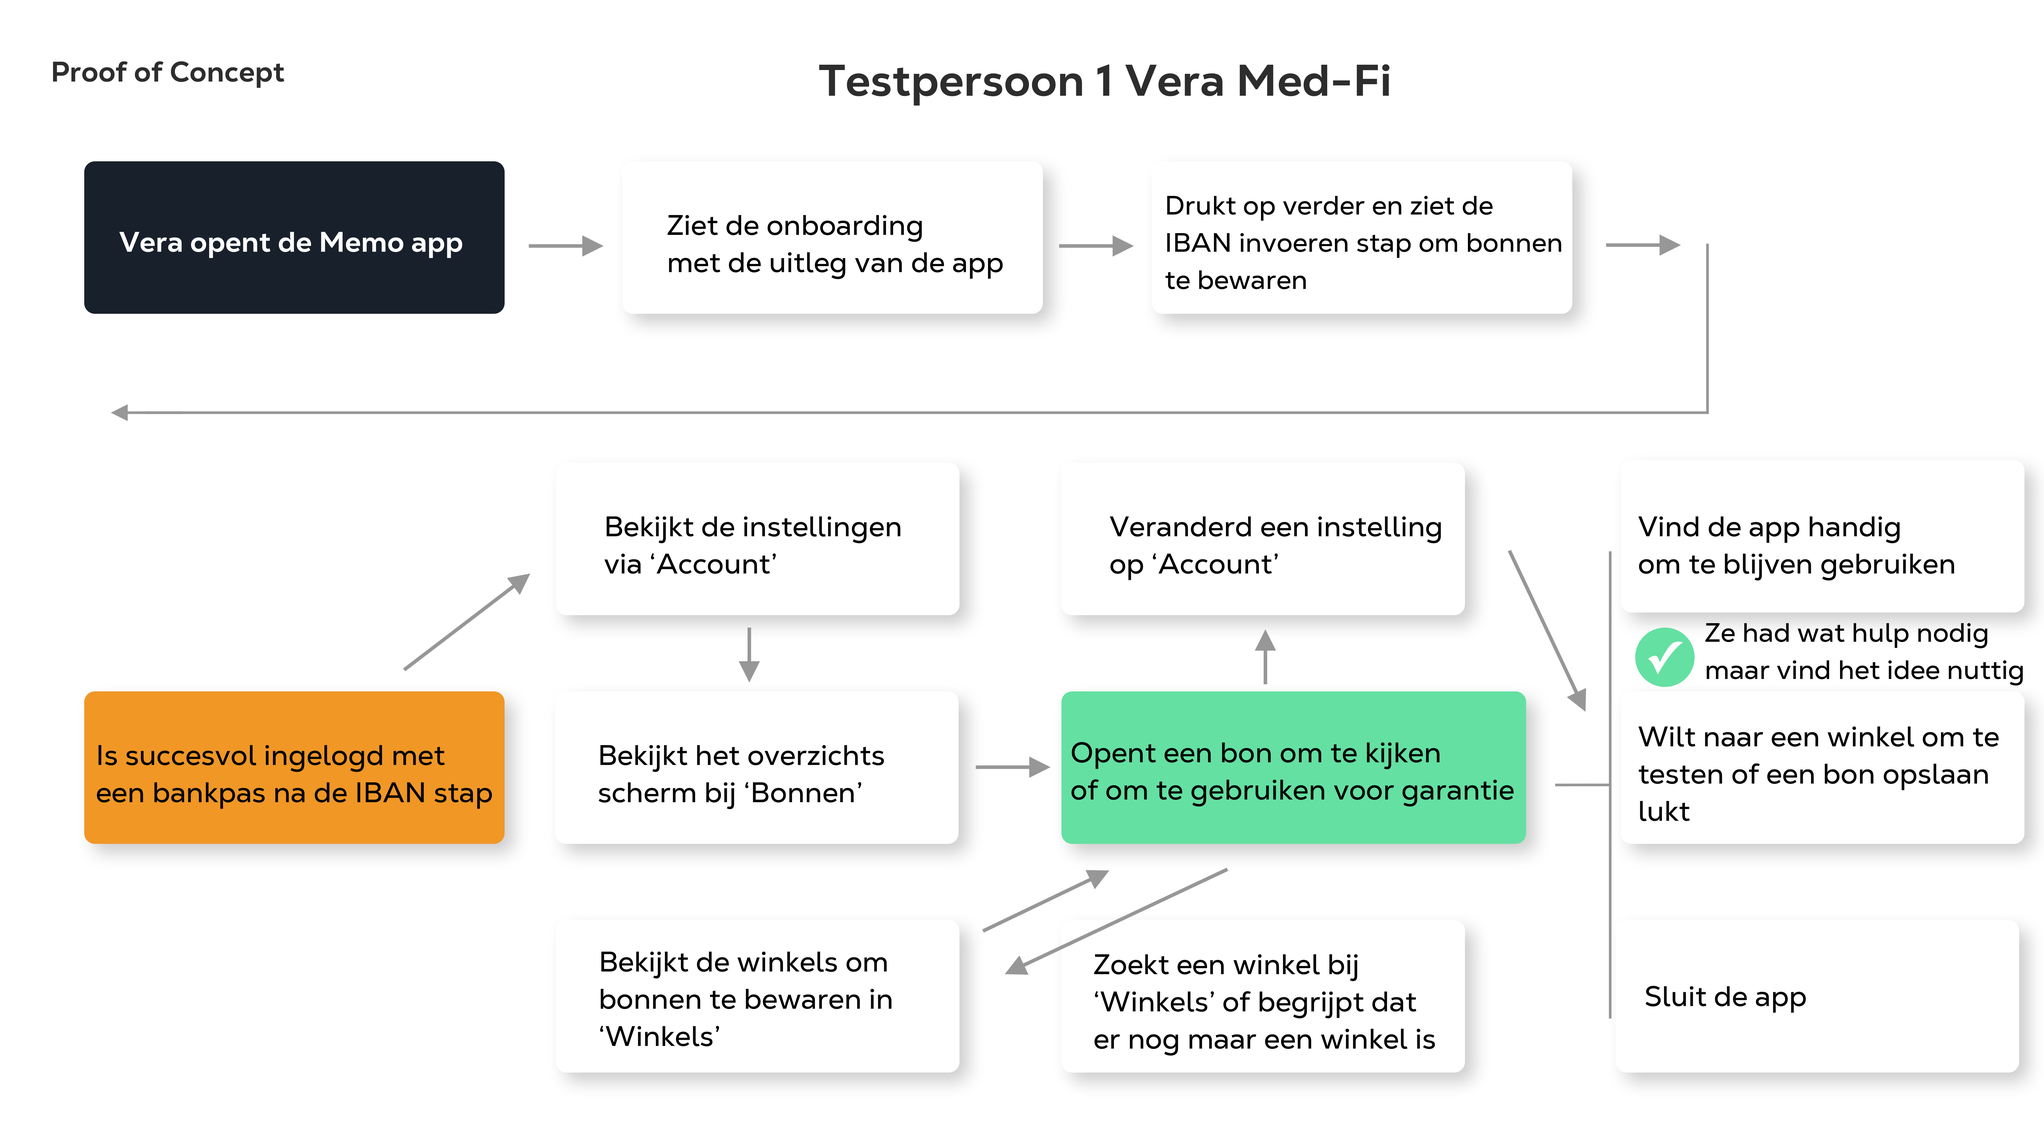
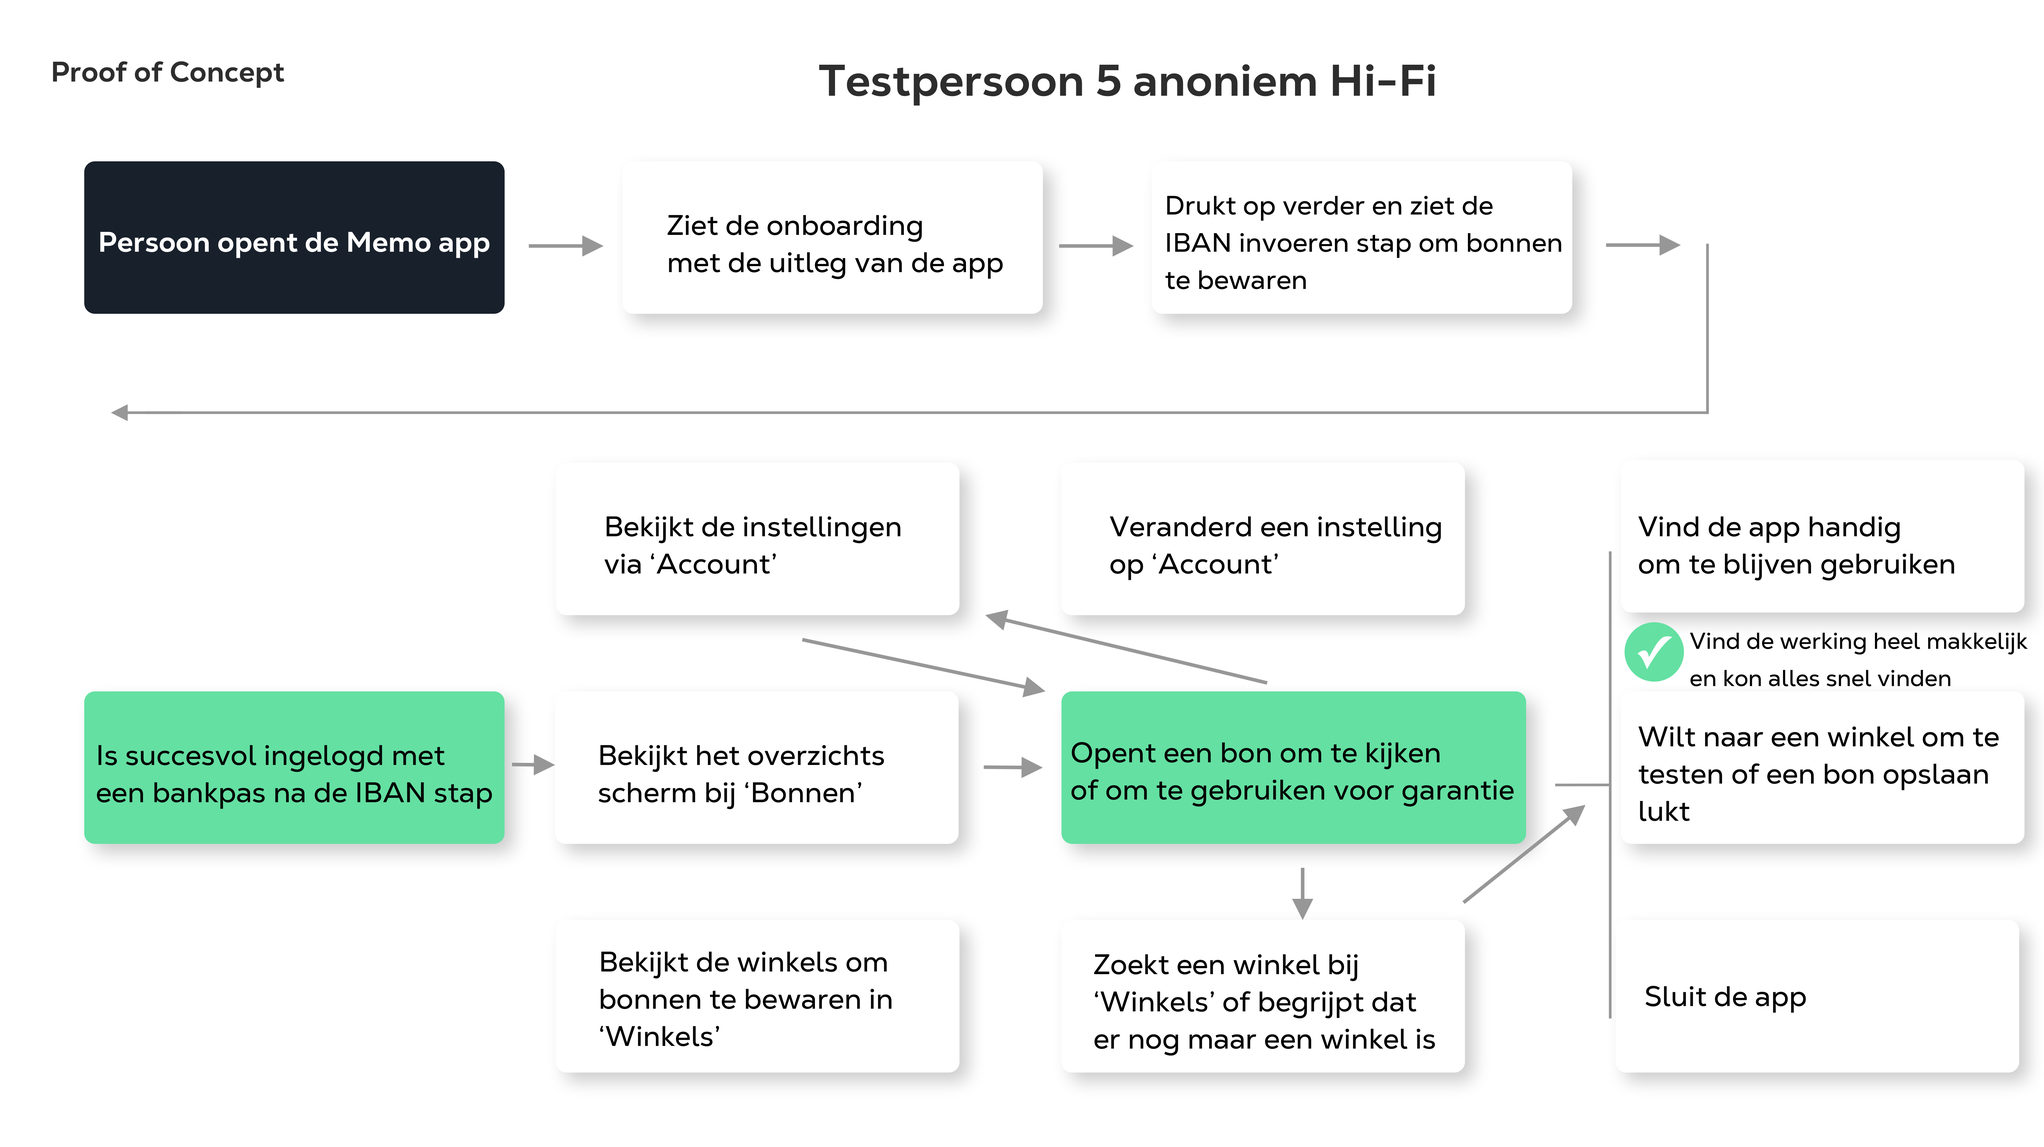
GITBOOK-145: change request with no subject merged in GitBook

diff --git a/hoofdstuk-6-evalueren/proof-of-concept-2.md b/hoofdstuk-6-evalueren/proof-of-concept-2.md
@@ -6,10 +6,9 @@ description: >-
 
 # Proof of Concept 2
 
-Om te testen heb ik een aantal mensen gevraagd om te kijken hoe de app aanvoelt en werkt. Daarom heb ik eerst een iteratie van het prototype (Med-Fi). Ook heb ik zonder vragen geobserveerd zodat de doelgroep zich in de app kan inleven en ik dit goed kan noteren.  \
+Om te testen heb ik een aantal mensen gevraagd om te kijken hoe de app aanvoelt en werkt. Daarom heb ik eerst een iteratie van het prototype (Hi-Fi). Ook heb ik zonder vragen geobserveerd zodat de doelgroep zich in de app kan inleven en ik dit goed kan noteren.  \
 \
-Dit heb ik een tweede keer gedaan om te kijken of de aanpassingen die ik heb gemaakt nu succesvol gaan. Waar het eerst fout ging tijdens mijn eerste proof of concept. met mensen op straat en in de bibliotheek van een winkelcentrum. Ik heb een iemand meegenomen om dit in de winkel te simuleren door een Field Trial. Dit verliep eigenlijk hetzelfde, en vervolgens deed ik het ook. \
-
+Dit heb ik een tweede keer gedaan om te kijken of het prototype nu bijna foutloos is. Waar het eerst fout ging tijdens mijn eerste proof of concept met de IBAN en omdat ik het Hi-Fi wilde maken. Ik deed de tests met mensen op straat en in het winkelcentrum.&#x20;
 
 **Testpersoon 1 Martijn, makelaar (35)**
 
@@ -30,8 +29,7 @@ Dit heb ik een tweede keer gedaan om te kijken of de aanpassingen die ik heb gem
 
 * Meld je aan in de app\
   &#x20;\- Slaat de uitleg onder de knop van de registratie over \
-  &#x20;\- Begrijpt vervolgens niet waar de IBAN voor bedoeld is, alleen nadat ik het uitleg \
-  &#x20;\-  "Waarom moet je de IBAN invullen?"&#x20;
+  &#x20;\- Begrijpt waar de IBAN voor wordt gebruikt
 * Krijg een indruk van hoe je een aankoopbon ontvangt
 
 \- Verteld dat hij eerst zijn e-mail wilt invullen, maar daarna rinkelt er een belletje dat hij dit niet voor elke winkel zou invullen, dus vindt hij het de bon automatisch krijgen handig&#x20;
@@ -63,16 +61,16 @@ Dit heb ik een tweede keer gedaan om te kijken of de aanpassingen die ik heb gem
 2. **Vind jij het veilig om je IBAN te gebruiken voor een app?** \
    Alleen als de app betrouwbaar is, wanneer? Als ik de app herken en alleen een deel van mijn rekeningnummer hoef te gebruiken
 3. **Bewaar jij jouw bonnen? Hoevaak?**\
-   Geen
+   Soms
 4. **Ben je bewust van het effect dat bonnen kunnen hebben op het milieu?** \
-   "Ik wist wel van de hoeveelheid bonnen af, maar niet van de giftige stoffen nee, ik zou de app wel gebruiken om mee te doen aan het milieu maar het probleem is dat ik geen bonnen accepteer."
+   "Ik wist wel van de hoeveelheid bonnen af, maar niet van de giftige stoffen nee, ik zou de app wel gebruiken om mee te doen aan het milieu en omdat het makkelijker is
 5. **Wat voor winkels bezoek je in je vrije tijd?** \
    Soms kleding winkels waar ik de bon bewaar maar ik shop veel online dus krijg ik een bon via de mail.
 6. **Zou je de app gebruiken (na het testplan) voor jouw gemak of voor het milieu gebruiken?** \
-   Nee maar ik vind het idee wel goed, pr
+   Ja ik zou de app gebruiken voor het milieu
 
 * Meld je aan in de app \
-  \-  Ik vind het wel duidelijk dat ik mijn IBAN moet gebruiken. "Ik denk dat de winkel mijn bon hier naartoe moet sturen?"&#x20;
+  \-  Ik vind het wel duidelijk dat ik mijn IBAN moet gebruiken. "Ik denk dat de winkel mijn kassabon hier naartoe moet sturen?"&#x20;
 * Krijg een indruk van hoe je een aankoopbon ontvangt\
   \- Ik zie een lijst met bonnen en ik verwacht een bon op mijn telefoon als ik betaal"&#x20;
 * Zoek een bon via een van de zoekopties\
@@ -109,7 +107,7 @@ Dit heb ik een tweede keer gedaan om te kijken of de aanpassingen die ik heb gem
   \-  "Dit is logisch wat het moet doen" \
   \- "Ik had de teksten tijdens het openen van de app niet gelezen"&#x20;
 * Krijg een indruk van hoe je een aankoopbon ontvangt\
-  \- "Ik denk dat de IBAN een verbinding kan maken met de winkel"
+  \- "Ik begrijp hoe de app met mijn IBAN werkt, maar ik weet niet of dit in de echte wereld werkt"
 * Zoek een bon via een van de zoekopties\
   \- "Ik zou het gewoon zoeken, en het ligt eraan wat ik moet zoeken"\
   \- "Je kunt ook nadenken over het feit dat mensen veel bonnen kunnen bewaren, dus zoeken moet erg makkelijk gaan"
@@ -121,7 +119,7 @@ Dit heb ik een tweede keer gedaan om te kijken of de aanpassingen die ik heb gem
   \- "Mijn enigste vraag is waarom exporteren dicht onder de instelling staat om bonnen automatisch te krijgen of pushnotificatie"\
   \- Ik: kun je zien dat exporteren een actie is? "Het valt niet genoeg op"&#x20;
 * Wissel van omgeving om je andere bonnen te zien\
-  \- "Ik zie dat je van omgeving kunt wisselen, misschien kun je de kassabonnen van jouw andere pasjes ook openen"
+  \- "Ik zie dat je hier meerdere pasjes kunt toevoegen".&#x20;
 
 **Testpersoon 4 Roy, Student (27)**&#x20;
 
@@ -161,3 +159,15 @@ Dit heb ik een tweede keer gedaan om te kijken of de aanpassingen die ik heb gem
     \- Mijn eerste indruk is dat ik kan kiezen wanneer ik de bon bewaar"&#x20;
 13. Wissel van omgeving om je andere bonnen te zien\
     \- "Dit is wel duidelijk"&#x20;
+
+## Hi-Fi Prototype User Tests
+
+<figure><img src="../.gitbook/assets/Proof of Concept 2 (2).png" alt=""><figcaption></figcaption></figure>
+
+<figure><img src="../.gitbook/assets/Proof of Concept Copy 3.png" alt=""><figcaption></figcaption></figure>
+
+<figure><img src="../.gitbook/assets/Proof of Concept Copy 4.png" alt=""><figcaption></figcaption></figure>
+
+<figure><img src="../.gitbook/assets/Proof of Concept Copy 5.png" alt=""><figcaption></figcaption></figure>
+
+<figure><img src="../.gitbook/assets/Proof of Concept.png" alt=""><figcaption></figcaption></figure>

diff --git a/hoofdstuk-5-valideren/expert-review.md b/hoofdstuk-5-valideren/expert-review.md
@@ -8,50 +8,38 @@ description: >-
 
 Ik wil feedback van belanghebbende over hun acceptatie van het product. Wat relevant, duidelijk en nuttig is voor hun winkelbranche. Zoals of de werking van het prototype. Het zijn geen experts in het geven van ontwerpfeedback, dus ik neem de verantwoordelijk om vragen te stellen die de feedback sturen in de richting van projectdoelen voor hun als belanghebbende.&#x20;
 
-## Stakeholders Reviews <a href="#8e5c" id="8e5c"></a>
+## Expert Reviews <a href="#8e5c" id="8e5c"></a>
 
-**Vragen**
+**Vragen voor mijn belanghebbende**
 
 * Is het milieu volgens jullie een belangrijke criteria om aan bij te dragen?&#x20;
 * Voldoet dit aan alle functionele eisen?&#x20;
 * Wordt het eenvoudig bewaren van kassabonnen hiermee effectief aangepakt?&#x20;
-* Lost dit de behoeften van jullie gebruikers op? \
+* Lost dit de behoeften van jullie klanten op?&#x20;
+* Kan dit prototype in jullie winkel geïmplementeerd worden via een API?
 
-
-**Punten waar ik feedback over wil:**\
 \
-\- Zijn de stappen logisch hoe je de bon bewaart en kunt gebruiken?\
-\- Welke acties of uitleg missen jullie in de app, of zouden jullie graag toevoegen? \
-\- Wat zou jullie klant helpen om de werking van de app te begrijpen? \
-\- Wat vinden jullie belangrijk aan de app? \
+Vraag 1: Zijn de stappen logisch hoe je de bon bewaart en kunt gebruiken?\
 \
-**Vraag 1**\
+Vraag 2 : Welke acties of uitleg missen jullie in de app, of zouden jullie graag toevoegen? \
 \
-Je gebruikt de app voor het eerst en wilt een indruk krijgen. Open de app en ga aan de slag.
+Vraag 3: Wat zou jullie klant helpen om de werking van de app te begrijpen? \
+\
+Vraag 4: Wat vinden jullie belangrijk aan de app? \
+\
+**Taak 1:** Je gebruikt de app voor het eerst en wilt een indruk krijgen. Open de app en ga aan de slag.
 
-**Vraag 2**&#x20;
+**Taak 2:** Je komt erachter dat je met de app bonnen automatisch kunt bewaren. Gebruik een deel van je IBAN om te kijken of je de bon kunt ontvangen.
 
-Je komt erachter dat je met de app bonnen automatisch kunt bewaren. Gebruik een deel van je IBAN om te kijken of je de bon kunt ontvangen.
+**Taak 3:** Je wilt een van jouw bonnen snel vinden. Probeer een van de functies uit om je bon te zoeken.
 
-**Vraag 3**&#x20;
+**Taak 4:**Je wilt gebruikmaken van de garantie voor je product. Open de bon en gebruik de barcode.
 
-Je wilt een van jouw bonnen snel vinden. Probeer een van de functies uit om je bon te zoeken.
+**Taak 5:** Je wilt de app eigen maken en om je bonnen beter te vinden. Ga opzoek naar de plek om je account en instellingen aan te passen.&#x20;
 
-**Vraag 4**
+**Taak 6:** Je bedenkt je dat je meerdere bankpasjes hebt. Kijk of jij een bankpas kunt toevoegen&#x20;
 
-Je wilt gebruikmaken van de garantie voor je product. Open de bon en gebruik de barcode.
-
-**Vraag 5**
-
-Je wilt de app eigen maken en om je bonnen beter te vinden. Ga opzoek naar de plek om je account en instellingen aan te passen.&#x20;
-
-**Vraag 6**&#x20;
-
-Je bedenkt je dat je meerdere bankpasjes hebt. Kijk of jij van omgeving kunt wisselen om je bonnen in op te slaan.&#x20;
-
-**Vraag 7**&#x20;
-
-Je wilt kijken voor welke winkels je bonnen kunt bewaren. Bekijk het aanbod van de app door naar de pagina met alle winkels te navigeren.\
+**Taak 7:** Je wilt kijken voor welke winkels je bonnen kunt bewaren. Bekijk het aanbod van de app door naar de pagina met alle winkels te navigeren.\
 
 
 **Tamara Coolblue Belanghebbende (25)**&#x20;

diff --git a/hoofdstuk-6-evalueren/peer-review.md b/hoofdstuk-6-evalueren/peer-review.md
@@ -16,34 +16,19 @@ De vragen gebruik ik als leidraad voor mijn Peer Reviews en met de eerste lezer.
 \- Wat zou jou helpen om te weten waarvoor je jouw IBAN gebruikt?\
 \- Wat vind jij handig aan de app? \
 \
-**Vraag 1**\
-\
-Je gebruikt de app voor het eerst en wilt een indruk krijgen. Open de app en ga aan de slag.
+**Taak 1:** Je gebruikt de app voor het eerst en wilt een indruk krijgen. Open de app en ga aan de slag.
 
-**Vraag 2**&#x20;
+**Taak 2:** Je komt erachter dat je met de app bonnen automatisch kunt bewaren. Gebruik een deel van je IBAN om te kijken of je de bon kunt ontvangen.
 
-Je komt erachter dat je met de app bonnen automatisch kunt bewaren. Gebruik een deel van je IBAN om te kijken of je de bon kunt ontvangen.
+**Taak 3:** Je wilt een van jouw bonnen snel vinden. Probeer een van de functies uit om je bon te zoeken.
 
-**Vraag 3**&#x20;
+**Taak 4:**Je wilt gebruikmaken van de garantie voor je product. Open de bon en gebruik de barcode.
 
-Je wilt een van jouw bonnen snel vinden. Probeer een van de functies uit om je bon te zoeken.
+**Taak 5:** Je wilt de app eigen maken en om je bonnen beter te vinden. Ga opzoek naar de plek om je account en instellingen aan te passen.&#x20;
 
-**Vraag 4**
+**Taak 6:** Je bedenkt je dat je meerdere bankpasjes hebt. Kijk of jij een bankpas kunt toevoegen&#x20;
 
-Je wilt gebruikmaken van de garantie voor je product. Open de bon en gebruik de barcode.
-
-**Vraag 5**
-
-Je wilt de app eigen maken en om je bonnen beter te vinden. Ga opzoek naar de plek om je account en instellingen aan te passen.&#x20;
-
-**Vraag 6**&#x20;
-
-Je bedenkt je dat je meerdere bankpasjes hebt. Kijk of jij van omgeving kunt wisselen om je bonnen in op te slaan.&#x20;
-
-**Vraag 7**&#x20;
-
-Je wilt kijken voor welke winkels je bonnen kunt bewaren. Bekijk het aanbod van de app door naar de pagina met alle winkels te navigeren.\
-\
+**Taak 7:** Je wilt kijken voor welke winkels je bonnen kunt bewaren. Bekijk het aanbod van de app door naar de pagina met alle winkels te navigeren.\
 
 
 **Testpersoon 1 Noa UX student (22):**
@@ -73,7 +58,7 @@ Je wilt kijken voor welke winkels je bonnen kunt bewaren. Bekijk het aanbod van 
 Aangezien het prototype al richting HiFi gaat, worden de aanpassingen kleiner met een paar uitschieters. Noa gaf feedback over de werking van de app, en om dit hier en daar beter uit te leggen. Het voelde volgens haar wel gestroomlijnd, maar soms moet de app zonder mijn uitleg ookal duidelijk worden. Bijvoorbeeld zoals waarom je een IBAN gebruikt. Na mijn proof of concept sloeg het idee wel aan maar hiermee kan ik de app functioneler kan maken. Ik neem de feedback over hoe ik de app beter kan uitleggen mee in de iteratie. \
 
 
-**Testpersoon 2 Aleksandra Visual/ UX student (35)**\
+**Testpersoon 2 Aleksandra Visual/ UX student (34)**\
 \
 ![](<../.gitbook/assets/1 (4).jpeg>)![](<../.gitbook/assets/2 (2).jpeg>)![](<../.gitbook/assets/3 (1).jpeg>)![](<../.gitbook/assets/4 (3).jpeg>)![](<../.gitbook/assets/5 (1).jpeg>)![](<../.gitbook/assets/6 (2).jpeg>)![](<../.gitbook/assets/7 (2).jpeg>)![](<../.gitbook/assets/8 (1).jpeg>)![](<../.gitbook/assets/9 (1) (1).jpeg>)![](<../.gitbook/assets/10 (1) (1).jpeg>)\
 \

diff --git a/hoofdstuk-5-valideren/experience-map.md b/hoofdstuk-5-valideren/experience-map.md
@@ -1,2 +1,38 @@
+---
+description: De ervaring van de gebruiker
+---
+
 # Experience map
 
+**Wat heb ik gedaan?** \
+\
+De doelgroep gebruikt de app voor het eerst. Met deze map wil ik de ervaring van de gebruiker evalueren. Aangezien ik mijn prototype heb gevalideerd. Belangrijk zijn de **Opportunities en de Jobs to be done**. Als ik weet wat gebruikers doen, kan ik ideeën opdoen over hoe ik de app kan verbeteren. Dit wil ik hierna meenemen en in het prototype verwerken. Zoals de onboarding aanscherpen. Ik heb dit verdeeld in current en future stages. Met dit schema kan ik zien wat de gebruiker doet, denkt en voelt.\
+
+
+**Wat neem ik mee**
+
+• Gebruikers moeten de app begrijpen en daarom moet ik hun belangen en de functie van de app introduceren.
+
+• Uitleg geven waar de doelgroep dit het meest nodig heeft
+
+• Meer feedback geven, als ik mij verplaats in een nieuwe gebruiker zou ik bevestiging willen, of als je een digitale bon voor de eerste keer ontvangt.\
+
+
+**Hoe ervaart de doelgroep de app**&#x20;
+
+• “Ik denk als je het milieu meer benadrukt dat gebruikers gemotiveerd raken om de app te gebruiken”
+
+• “Doordat ik automatisch mijn kassabonnen hierin kan bewaren werkt dit concept, en omdat je de interactie kort houdt”
+
+• Mijn ervaring in de app is dat het handig werkt, ik vind het belangrijk dat mijn gegevens veilig blijven en niet teveel moeite hoef te doen.\
+
+
+**Jobs to be done**
+
+* &#x20;Kassabonnen digitaal bewaren en gemakkelijk terug te kunnen vinden en organiseren.
+* &#x20;Doelgroep motiveren om digitale bonnen te gebruiken met een goede gebruikservaring&#x20;
+* &#x20;De gebruikerservaring verbeteren door de app snel en zonder moeite te laten werken, en door handige functies toe te voegen zoals zoekopties
+* &#x20;Kassabonnen duurzaam maken, zonder dat gebruikers moeite moeten doen om ze te scannen of te uploaden.
+* Feedback en uitleg aan gebruikers geven voor meer retentie om het milieu te helpen
+
+<figure><img src="../.gitbook/assets/Schermafbeelding 2023-04-25 om 14.27.58.png" alt=""><figcaption><p>Afbeelding van de Experience map</p></figcaption></figure>

diff --git a/SUMMARY.md b/SUMMARY.md
@@ -58,10 +58,10 @@
 
 ## ✏ Hoofdstuk 4 Conceptualiseringsfase
 
-* [Gebruikers principes](hoofdstuk-4-conceptualiseringsfase/design-en-gebruiker-principes.md)
 * [Concept](hoofdstuk-4-conceptualiseringsfase/concept.md)
 * [Wireframes](hoofdstuk-4-conceptualiseringsfase/wireframes.md)
 * [📱 Lo-Fi Prototype](hoofdstuk-4-conceptualiseringsfase/lo-fi-prototype.md)
+* [Gebruikers principes](hoofdstuk-4-conceptualiseringsfase/design-en-gebruiker-principes.md)
 * [Proof of Concept](hoofdstuk-5-valideren/proof-of-concept-2.md)
   * [Testvragen](hoofdstuk-4-conceptualiseringsfase/proof-of-concept/testvragen.md)
 * [✍ Feedback en meetings](hoofdstuk-4-conceptualiseringsfase/feedback-en-meetings.md)
@@ -71,16 +71,15 @@
 * [📱 Hi-Fi Prototype](hoofdstuk-5-valideren/hi-fi-prototype.md)
 * [Risk analysis](hoofdstuk-5-valideren/risk-analysis.md)
 * [Hi-Fi Iteratie](hoofdstuk-5-valideren/hi-fi-iteratie.md)
-* [Proof of Concept 2](hoofdstuk-4-conceptualiseringsfase/proof-of-concept.md)
 * [Experience map](hoofdstuk-5-valideren/experience-map.md)
 * [✍ Feedback en meetings](hoofdstuk-5-valideren/feedback-en-meetings.md)
 
 ## ☑ Hoofdstuk 6 Evalueren
 
-* [Hi-Fi Iteratie 2](hoofdstuk-5-valideren/a-b-testing-iteratie.md)
 * [Peer Review](hoofdstuk-6-evalueren/peer-review.md)
+* [Proof of Concept 2](hoofdstuk-6-evalueren/proof-of-concept-2.md)
+* [Hi-Fi Iteratie 2](hoofdstuk-5-valideren/a-b-testing-iteratie.md)
 * [Expert Review](hoofdstuk-5-valideren/expert-review.md)
-* [📱 Hi-Fi Prototype 2](hoofdstuk-6-evalueren/iteratie.md)
 * [✍ Feedback en meetings](hoofdstuk-6-evalueren/feedback-en-meetings.md)
 
 ## 🏁 Hoofdstuk 7 Conclusie

diff --git a/hoofdstuk-5-valideren/hi-fi-iteratie.md b/hoofdstuk-5-valideren/hi-fi-iteratie.md
@@ -1,3 +1,7 @@
+---
+description: Aanpassingen uit de Hi-Fi Iteratie
+---
+
 # Hi-Fi Iteratie
 
 **Iteratie**
@@ -33,3 +37,13 @@ In het winkelscherm wil ik laten zien welke winkels beschikbaar zijn voor de geb
 <figure><img src="../.gitbook/assets/Schermafbeelding 2023-04-25 om 11.02.51.png" alt=""><figcaption><p>Hi-Fi Iteratie Flow</p></figcaption></figure>
 
 ![](<../.gitbook/assets/Hi-fi iteratie.png>)![](<../.gitbook/assets/Hi-fi iteratie 3.png>)![](<../.gitbook/assets/Hi-fi iteratie4 Copy 4.png>)![](<../.gitbook/assets/Hi-fi iteratie5 home active.png>)![](<../.gitbook/assets/Hi-fi iteratie5 home (1).png>)![](<../.gitbook/assets/Hi-fi iteratie5.2 home.png>)![](<../.gitbook/assets/Hi-fi iteratie6 account.png>)
+
+**Feedback**&#x20;
+
+• De app moet geen zwitsers zakmes worden
+
+• De states zoals Empty state zonder bonnen en Succes state zijn belangrijk om feedback te geven aan de gebruiker
+
+• Goede keuze om overbodige functies weg te laten
+
+• Feedback aan mijzelf: denk na over de gebruikersinterface en hoe de onboarding met illustraties uitgelegd kan worden\

diff --git a/hoofdstuk-5-valideren/a-b-testing-iteratie.md b/hoofdstuk-5-valideren/a-b-testing-iteratie.md
@@ -6,3 +6,10 @@ description: >-
 
 # Hi-Fi Iteratie 2
 
+**Concrete inzichten**
+
+* &#x20;Ik heb mijn aandacht gericht op het automatisch opslaan van kassabonnen, wat het concept om het milieu te verbeteren nog sterker maakt
+* Ik heb de gebruikersprincipes van Joshua Porter en Stephen Anderson meer gebruikt, deze principes gaan over een moeiteloze ervaring, korte stappen, voldoende uitleg en feedback aan de gebruiker, om de motivatie van de gebruiker te verhogen. Dit zie je aan de tone of voice en korte stappen in de iteratie.
+* Ik heb de motivatie van de gebruiker verder verhoogd door meer feedback te geven over hoe zij een steentje bijdragen aan het milieu. Dit doe ik door succes states/feedback 'Nu draag je een steentje bij' 'Gelukt! Je kunt nu automatisch kassabonnen bewaren'
+* Om dit te versterken, heb ik de gebruikersinterface verbeterd door knoppen en tekst groter te maken en te verhelderen
+* De principes zijn een belangrijke toevoeging voor het gebruiksgemak

diff --git a/hoofdstuk-5-valideren/proof-of-concept-2.md b/hoofdstuk-5-valideren/proof-of-concept-2.md
@@ -24,7 +24,7 @@ Hier valideer ik mijn concept door te kijken hoe ik de ervaring kan verbeteren, 
 \
 
 
-<figure><img src="../.gitbook/assets/Proof of Concept.png" alt=""><figcaption><p>Eerste test</p></figcaption></figure>
+<figure><img src="../.gitbook/assets/Proof of Concept (1).png" alt=""><figcaption><p>Eerste test</p></figcaption></figure>
 
 <figure><img src="../.gitbook/assets/Proof of Concept Copy.png" alt=""><figcaption></figcaption></figure>
 

diff --git a/hoofdstuk-5-valideren/feedback-en-meetings.md b/hoofdstuk-5-valideren/feedback-en-meetings.md
@@ -2,7 +2,7 @@
 
 ## **Validatiefase Feedback**
 
-* **Goede principes voor de problemen van je project**
+* **Goede principes gebruikt voor de problemen van je project**
 * **Maak de uitleg van je concept plat**
 * **Laat zien wat de uiteindelijke Plan van Eisen van je prototype zijn**
 * **Itereer je Hi-Fi prototype niet alleen op basis van verbeteringen maar ook de eisen**

diff --git a/hoofdstuk-7-conclusie/eindpresentatie.md b/hoofdstuk-7-conclusie/eindpresentatie.md
@@ -6,4 +6,4 @@ description: >-
 
 # Eindpresentatie
 
-* In de komende twee weken ga ik aan de slag met mijn eindpresentatie om lezers te overtuigen.
+* In de komende twee weken ga ik aan de slag met mijn eindpresentatie om aan lezers te presenteren
